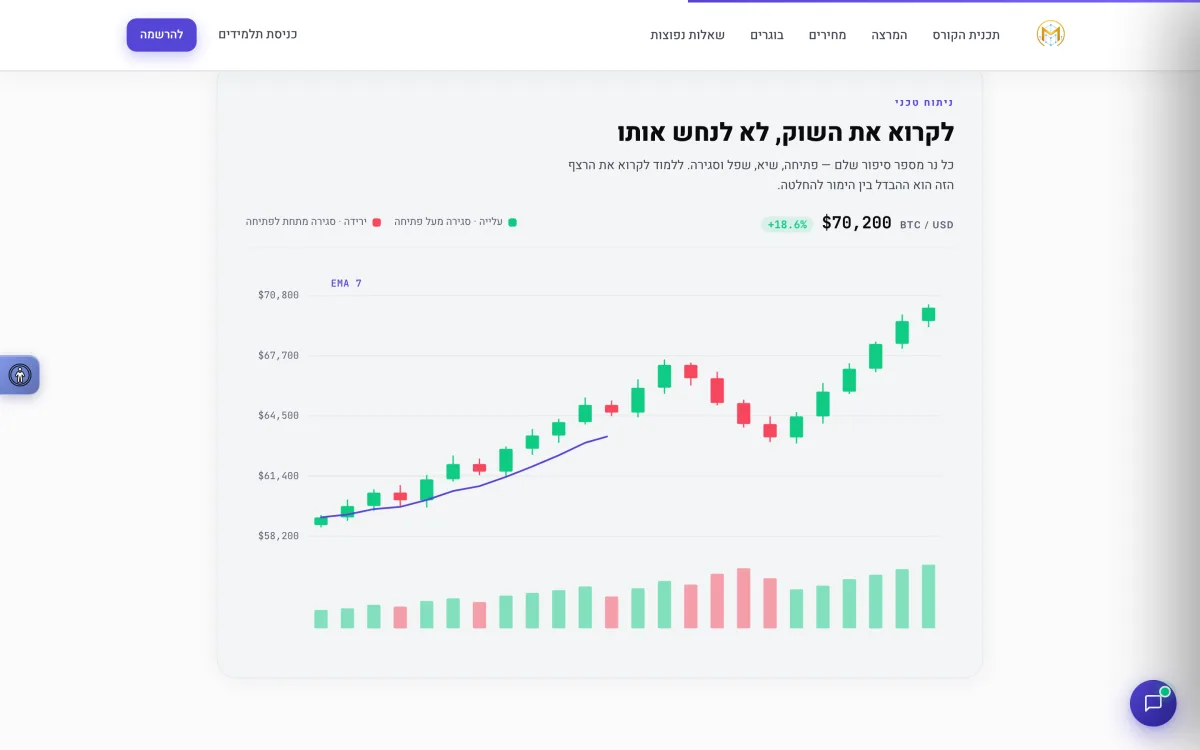
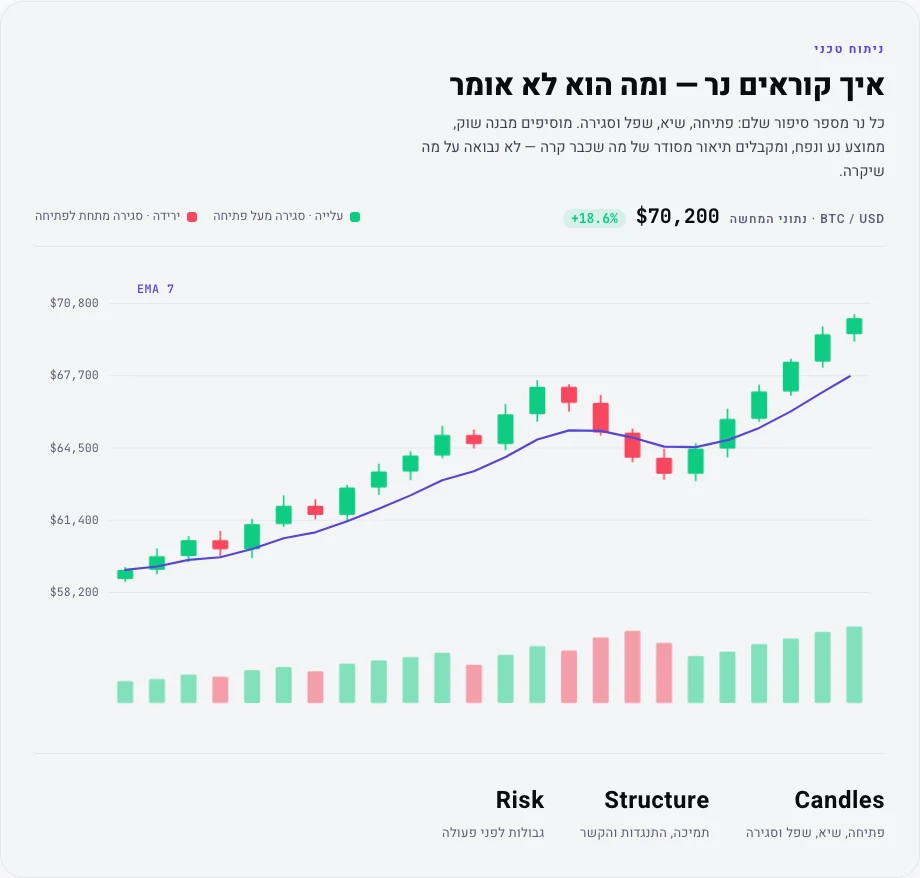
Clarify project documentation and current capabilities

diff --git a/README.md b/README.md
@@ -14,7 +14,7 @@
 
 ## Shipping the entire product as one HTML file
 
-The deployed product is a single `index.html` — 312,073 bytes, 7,320 lines, inline `<style>` and inline vanilla JavaScript. The repo tracks five files total: `index.html`, `logo.png`, `vercel.json`, `.gitignore`, `README.md`. No `package.json`, no bundler, no framework, no CI workflow. Vercel serves the committed file as a static asset; nothing sits between the committed bytes and the served bytes.
+The page keeps its layout, styles and vanilla JavaScript in `index.html`, with a separate SVG brand mark and Vercel configuration. There is no package manager, bundler or framework. Vercel serves the static page directly.
 
 ## Isolating numerals so digits survive the RTL flow
 
@@ -33,7 +33,7 @@ Hebrew runs right-to-left; Latin digits, currency and percentages run left-to-ri
 
 ## Degrading five motion engines to a static page
 
-Five namespaced, self-contained engines: `mc-net` (hero lattice canvas), `mc-coincard` (3D tilt glass cards), `mc-chain` (blockchain showcase), `mc-candles` (draw-on-scroll candlestick), `mc-ticker` (RTL marquee).
+Five namespaced, self-contained engines: `mc-net` (hero lattice canvas), `mc-coincard` (tilting course-concept cards), `mc-chain` (blockchain showcase), `mc-candles` (draw-on-scroll candlestick), `mc-ticker` (RTL marquee).
 
 Each obeys one contract — GPU-only transforms, `requestAnimationFrame` loops paused when the section leaves the viewport (`IntersectionObserver`) or the tab is hidden (`visibilitychange`), and a fully-formed static fallback.
 
@@ -45,17 +45,19 @@ A reduce-motion bridge mirrors *both* the OS `prefers-reduced-motion` setting an
 
 `vercel.json` sets a Content-Security-Policy response header whose `script-src` allows `'self'`, `'unsafe-inline'` — the page's JavaScript is inline, so the policy has to permit it — and three named hosts, with `object-src 'none'` and `base-uri 'self'`. The allowlist constrains which third-party origins can serve script, not what inline script may run. The page loads four external scripts. The three CDN libraries — GSAP, ScrollTrigger, Lenis — are Subresource-Integrity pinned with `sha384` hashes, so a tampered CDN response fails closed instead of executing; the fourth, the accessibility widget, is served from its own allowlisted host without a pin.
 
-Accessibility ships as a shared widget loaded by script tag rather than a per-site panel, so it is maintained in one place across projects. The page carries 104 `aria-` attributes and a `.skip-link` to `#main-content`.
+Accessibility ships as a shared widget loaded by script tag rather than a per-site panel, so it is maintained in one place across projects. A `.skip-link` leads to `#main-content`; mixed-script labels carry direction and language annotations.
 
-## Replacing named reviews and credentials with placeholders
+## Following the learning journey
 
-Commit `b358e56` removed invented reviews and instructor credentials and moved the demo identity and contact details to placeholders (`ישראל ישראלי`, `050-000-0000`, `wa.me/972500000000`). The aggregate figures still on the page — graduate counts, rating, completion rate, years taught — are unverified demo copy, not measured results. Design holds a single accent, `--purple: #5546D6`; the `#4400aa` in the codebase is only the high-contrast accessibility override, not a second brand color.
+The page starts with what cryptocurrency is, shows a transaction moving through a blockchain, and introduces the tools before explaining buying, KYC, selling and cashing out. Risk and market-reading sections lead into the course curriculum. Automation remains in the curriculum, without a duplicate trading-bot showcase.
+
+Market prices and charts are labelled as simulations. Invented graduate counts, ratings, completion rates and instructor credentials have been removed. The enrollment section explicitly says online registration is not connected; pricing links lead to that status instead of an inactive contact channel.
 
 ## How it was verified
 
-- **2026-08-31** (first checked 2026-08-15) — the live URL returns bytes identical to the committed `index.html`: SHA-256 `e56351ec…9eb6`, 312,073 bytes on both sides.
+- **2026-09-07** — the live HTML matched the committed `index.html` at `85881ca`. Chromium loaded the current learning journey without page errors or failed network requests.
 - The CSP header is present on the live response (`server: Vercel`) and matches `vercel.json`.
-- Sections in document order: chain showcase, curriculum, instructor, pricing, testimonials, FAQ, enroll.
+- The live page shows the simulated-market label and the explicit enrollment status.
 
 ## Screenshots
 
@@ -68,7 +70,7 @@ Commit `b358e56` removed invented reviews and instructor credentials and moved t
 </p>
 
 <p align="center">
-  <img src="assets/mobile-home.webp" alt="Mobile home view at 390 px — hero, live price strip and the accessibility widget" width="45%">
+  <img src="assets/mobile-home.webp" alt="Mobile home view at 390 px — course introduction, simulated market strip and accessibility widget" width="45%">
 </p>
 
 ---
